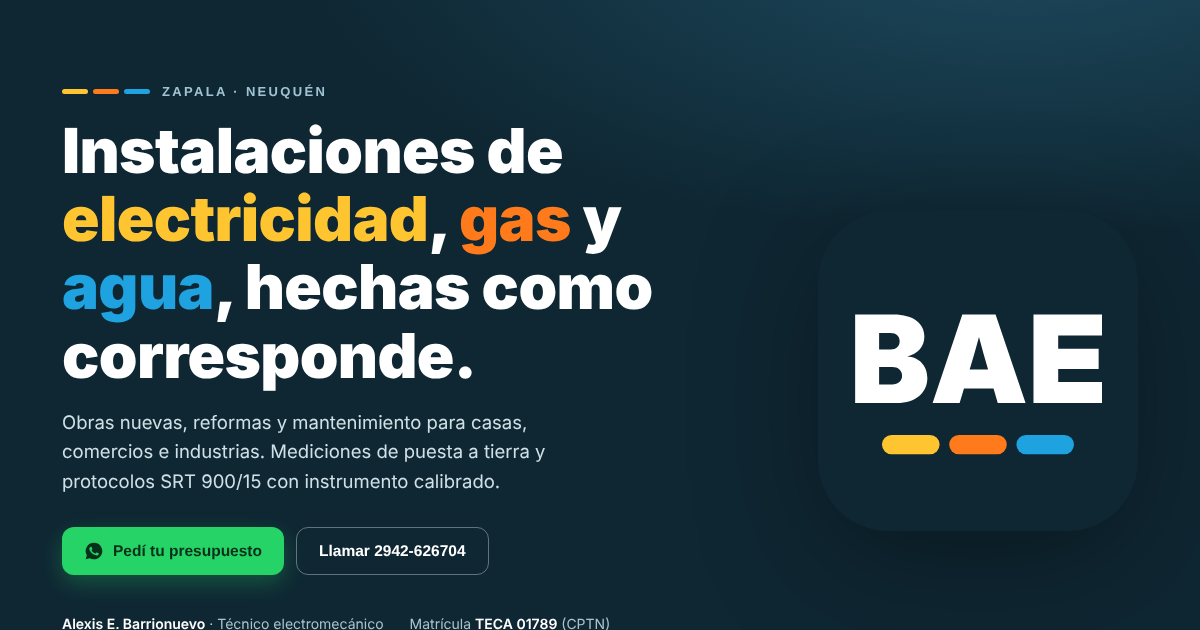
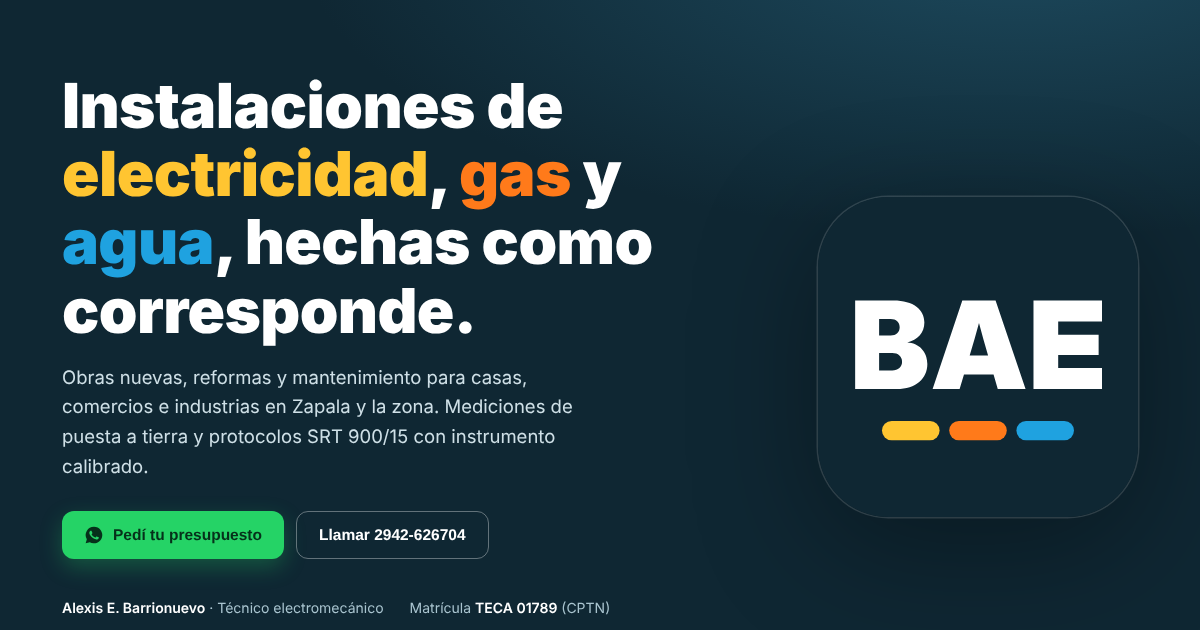
Add files via upload

Changed region(s): [[0.0308, 0.1206, 0.555, 1.0], [0.7092, 0.4524, 0.925, 0.7238]]

diff --git a/index.html b/index.html
@@ -4,7 +4,7 @@
 <meta charset="utf-8">
 <meta name="viewport" content="width=device-width, initial-scale=1">
 <title>BAE Servicios de Instalaciones · Electricidad, gas y agua en Zapala</title>
-<meta name="description" content="Instalaciones eléctricas, de gas y de agua en Zapala, Neuquén. Mediciones de puesta a tierra y protocolos SRT 900/15. Técnico electromecánico matriculado TECA 01789 y gasista matriculado de 1.ª categoría.">
+<meta name="description" content="Instalaciones eléctricas, de gas y de agua en Zapala, Neuquén. Mediciones de puesta a tierra y protocolos SRT 900/15. Técnico electromecánico matriculado TECA 01789 y gasista matriculado de 1.ª categoría. Zapala, Las Lajas, Loncopué, Caviahue, Villa Pehuenia y Moquehue.">
 <meta name="theme-color" content="#0F2733">
 <meta property="og:title" content="BAE Servicios de Instalaciones">
 <meta property="og:description" content="Electricidad · Gas · Agua — Zapala, Neuquén">
@@ -41,7 +41,7 @@ nav a{text-decoration:none;opacity:.85}nav a:hover{opacity:1}
 .btn.ghost{border:1.5px solid rgba(255,255,255,.35);color:#fff}
 .btn.sm{padding:9px 15px;font-size:14px;border-radius:10px}
 /* portada */
-.hero{background:radial-gradient(1200px 500px at 85% -10%, #1d4a5e 0%, transparent 60%),var(--navy);color:#fff;padding:84px 0 92px;overflow:hidden;position:relative}
+.hero{background:radial-gradient(1200px 500px at 85% -10%, #1d4a5e 0%, transparent 60%),var(--navy);color:#fff;padding:72px 0 88px;overflow:hidden;position:relative}
 .hero .wrap{display:grid;grid-template-columns:1.25fr .75fr;gap:40px;align-items:center}
 .eyebrow{font:700 13px Archivo,sans-serif;letter-spacing:.18em;text-transform:uppercase;color:#9fc3d3;display:flex;gap:12px;align-items:center}
 .hero h1{font-size:clamp(36px,5.4vw,62px);font-weight:900;margin:18px 0 18px}
@@ -84,6 +84,7 @@ section{padding:84px 0}
 .lines a,.lines span{display:flex;gap:14px;align-items:center;text-decoration:none;background:var(--navy2);border-radius:14px;padding:16px 18px;font-weight:500}
 .lines svg{width:22px;height:22px;flex:none;color:#9fc3d3}
 .lines small{display:block;color:#9fc3d3;font-size:12.5px;font-weight:400}
+.zonas{display:flex;flex-wrap:wrap;gap:10px}.zonas span{background:#fff;border:1px solid var(--line);border-radius:999px;padding:10px 18px;font-weight:600;font-size:15.5px}.zonas .base{background:var(--navy);color:#fff;border-color:var(--navy)}.zonas small{font-weight:500;color:#9fc3d3;margin-left:6px;font-size:12.5px;text-transform:uppercase;letter-spacing:.08em}
 footer{padding:34px 0 46px;color:var(--mut);font-size:14px}
 footer .wrap{display:flex;justify-content:space-between;gap:20px;flex-wrap:wrap;align-items:center}
 footer a{text-decoration:none}
@@ -109,15 +110,14 @@ footer a{text-decoration:none}
 <body>
 <header class="top"><div class="wrap">
   <a class="brand" href="#" aria-label="BAE Servicios de Instalaciones"><svg class="mk" aria-hidden="true" xmlns="http://www.w3.org/2000/svg" viewBox="0 0 100 100"><rect width="100" height="100" rx="22" fill="#FFFFFF"/><path d="M11.61 60.0H24.63C30.63 60.0 34.17 56.69 34.17 52.16C34.17 48.27 31.46 45.60 27.90 45.47V45.43C31.11 44.82 33.24 42.46 33.24 39.25C33.24 35.22 29.90 32.35 23.59 32.35H11.61ZM19.10 54.21V48.75H23.19C25.06 48.75 26.27 49.83 26.27 51.48C26.27 53.13 25.06 54.21 23.19 54.21ZM19.10 43.30V38.14H22.72C24.43 38.14 25.52 39.16 25.52 40.72C25.52 42.28 24.43 43.30 22.72 43.30ZM35.82 60.0H44.26L45.62 55.45H54.86L56.17 60.0H64.86L55.49 32.35H45.10ZM47.40 49.51 47.47 49.27C48.47 45.93 49.40 42.70 50.31 39.34C51.20 42.70 52.11 45.93 53.08 49.27L53.15 49.51ZM67.34 60.0H88.75V53.46H75.06V49.34H87.70V43.04H75.06V38.88H88.75V32.35H67.34Z" fill="#0F2733"/><rect x="20.00" y="70" width="18" height="6" rx="3.0" fill="#FFC531"/><rect x="41.00" y="70" width="18" height="6" rx="3.0" fill="#FF7A1A"/><rect x="62.00" y="70" width="18" height="6" rx="3.0" fill="#1FA2E0"/></svg><span><b>Servicios de Instalaciones</b><small>ELECTRICIDAD · GAS · AGUA</small></span></a>
-  <nav><a href="#servicios">Servicios</a><a href="#como">Cómo trabajo</a><a href="#contacto">Contacto</a>
+  <nav><a href="#servicios">Servicios</a><a href="#como">Cómo trabajo</a><a href="#zona">Zona</a><a href="#contacto">Contacto</a>
   <a class="btn wa sm" href="https://wa.me/5492942626704?text=Hola%20Alexis%2C%20te%20escribo%20desde%20la%20web.%20Quisiera%20consultar%20por%20un%20trabajo." target="_blank" rel="noopener">WhatsApp</a></nav>
 </div></header>
 
 <main>
 <div class="hero"><div class="wrap">
   <div>
-    <div class="eyebrow"><span class="tri"><i></i><i></i><i></i></span>Zapala · Neuquén</div>
-    <h1>Instalaciones de <em class="e">electricidad</em>, <em class="g">gas</em> y <em class="a">agua</em>, hechas como corresponde.</h1>
+    <h1 style="margin-top:0">Instalaciones de <em class="e">electricidad</em>, <em class="g">gas</em> y <em class="a">agua</em>, hechas como corresponde.</h1>
     <p>Obras nuevas, reformas y mantenimiento para casas, comercios e industrias. Mediciones de puesta a tierra y protocolos SRT 900/15 con instrumento calibrado.</p>
     <div class="cta">
       <a class="btn wa" href="https://wa.me/5492942626704?text=Hola%20Alexis%2C%20te%20escribo%20desde%20la%20web.%20Quisiera%20consultar%20por%20un%20trabajo." target="_blank" rel="noopener"><svg viewBox="0 0 24 24" fill="currentColor"><path d="M12 2a10 10 0 0 0-8.6 15.1L2 22l5-1.3A10 10 0 1 0 12 2zm5.3 14.1c-.2.6-1.3 1.2-1.8 1.2-.5.1-1 .1-3.3-.8-2.8-1.1-4.5-4-4.7-4.2-.1-.2-1.1-1.5-1.1-2.8s.7-2 1-2.3c.2-.3.5-.3.7-.3h.5c.2 0 .4 0 .6.5l.8 2c.1.2.1.4 0 .5l-.3.5-.4.4c-.1.1-.3.3-.1.6.2.3.8 1.3 1.7 2.1 1.1 1 2.1 1.3 2.4 1.5.3.1.5.1.6-.1l.9-1c.2-.3.4-.2.6-.1l1.9.9c.3.1.5.2.5.3.1.2.1.7-.1 1.1z"/></svg>Pedí tu presupuesto</a>
@@ -129,7 +129,7 @@ footer a{text-decoration:none}
 </div></div>
 
 <section id="servicios"><div class="wrap">
-  <div class="head"><div class="eyebrow"><span class="tri"><i></i><i></i><i></i></span>Servicios</div>
+  <div class="head"><div class="eyebrow">Servicios</div>
     <h2>Todo lo de la instalación, con un solo responsable.</h2>
     <p>Matriculado en electricidad y en gas: me ocupo del trabajo de principio a fin y lo dejo por escrito.</p></div>
   <div class="grid">
@@ -164,16 +164,22 @@ footer a{text-decoration:none}
   </div>
 </div></section>
 
-<section id="contacto" style="padding-top:20px"><div class="wrap">
+<section id="zona" class="alt" style="padding:64px 0"><div class="wrap">
+  <div class="head" style="margin-bottom:26px"><div class="eyebrow">Zona de trabajo</div><h2>Desde Zapala a toda la zona.</h2>
+    <p>Base en Zapala, Neuquén. Viajo a obras y mediciones en:</p></div>
+  <div class="zonas"><span class="base">Zapala <small>base</small></span><span>Las Lajas</span><span>Loncopué</span><span>Caviahue</span><span>Villa Pehuenia</span><span>Moquehue</span></div>
+</div></section>
+
+<section id="contacto"><div class="wrap">
   <div class="contact">
-    <div><div class="eyebrow" style="color:#9fc3d3"><span class="tri"><i></i><i></i><i></i></span>Contacto</div>
+    <div><div class="eyebrow" style="color:#9fc3d3">Contacto</div>
       <h2 style="margin-top:14px">¿Tenés una obra o una medición pendiente?</h2>
-      <p>Escribime y coordinamos. Trabajo en Zapala y la zona.</p>
+      <p>Escribime y coordinamos la visita.</p>
       <a class="btn wa" href="https://wa.me/5492942626704?text=Hola%20Alexis%2C%20te%20escribo%20desde%20la%20web.%20Quisiera%20consultar%20por%20un%20trabajo." target="_blank" rel="noopener">Escribir por WhatsApp</a></div>
     <div class="lines">
       <a href="tel:+542942626704"><svg viewBox="0 0 24 24" fill="none" stroke="currentColor" stroke-width="2" stroke-linecap="round" stroke-linejoin="round"><path d="M22 16.9v3a2 2 0 0 1-2.2 2 19.8 19.8 0 0 1-8.6-3.1 19.5 19.5 0 0 1-6-6A19.8 19.8 0 0 1 2.1 4.2 2 2 0 0 1 4.1 2h3a2 2 0 0 1 2 1.7c.1 1 .4 1.9.7 2.8a2 2 0 0 1-.5 2.1L8 9.9a16 16 0 0 0 6 6l1.3-1.3a2 2 0 0 1 2.1-.4c.9.3 1.8.6 2.8.7a2 2 0 0 1 1.7 2z"/></svg><span><small>Teléfono / WhatsApp</small>2942-626704</span></a>
       <a href="mailto:contacto@baeinstalaciones.com.ar"><svg viewBox="0 0 24 24" fill="none" stroke="currentColor" stroke-width="2" stroke-linecap="round" stroke-linejoin="round"><rect x="2" y="4" width="20" height="16" rx="2"/><path d="m22 7-10 6L2 7"/></svg><span><small>Email</small>contacto@baeinstalaciones.com.ar</span></a>
-      <span><svg viewBox="0 0 24 24" fill="none" stroke="currentColor" stroke-width="2" stroke-linecap="round" stroke-linejoin="round"><path d="M12 22s7-6.1 7-12a7 7 0 0 0-14 0c0 5.9 7 12 7 12z"/><circle cx="12" cy="10" r="2.5"/></svg><span><small>Zona</small>Zapala, Neuquén y alrededores</span></span>
+      <span><svg viewBox="0 0 24 24" fill="none" stroke="currentColor" stroke-width="2" stroke-linecap="round" stroke-linejoin="round"><path d="M12 22s7-6.1 7-12a7 7 0 0 0-14 0c0 5.9 7 12 7 12z"/><circle cx="12" cy="10" r="2.5"/></svg><span><small>Base</small>Zapala, Neuquén</span></span>
     </div>
   </div>
 </div></section>
